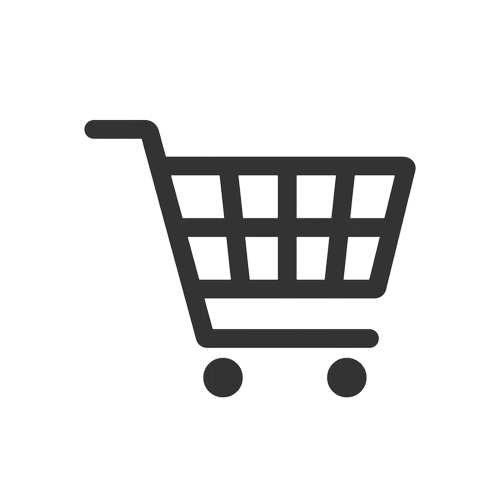
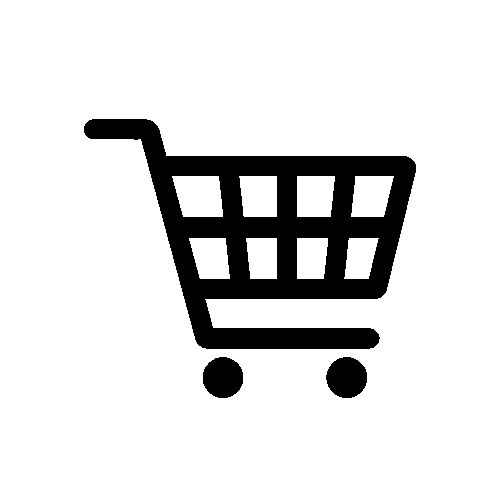
cambios portada

Changed region(s): [[0.15, 0.24, 0.84, 0.81]]

diff --git a/css/estilos.css b/css/estilos.css
@@ -11,7 +11,8 @@ header {
   height: 290px;
   display: flex;
   flex-direction: column;
-  background-color: #ffc48d;
+  background-image: url('../img/fondo.png');
+  background-size: cover;
   color: black;
 }
 
@@ -21,7 +22,7 @@ header {
 
 #divInferior {
   order: 2;
-  margin-top: 10px;
+  margin-top: 20px;
 }
 
 #divlogin {
@@ -33,6 +34,7 @@ header {
   display: flex;
   flex-direction: row;
   margin-right: 30px;
+  margin-top: 20px;
 }
 
 #divcarrito {
@@ -49,7 +51,7 @@ header {
   opacity: 0;
 }
 #divcarrito:hover p {
-  opacity: 0.5;
+  opacity: 1;
 }
 #divpedido img {
   width: 50px;
@@ -58,7 +60,7 @@ header {
   opacity: 0;
 }
 #divpedido:hover p {
-  opacity: 0.5;
+  opacity: 1;
 }
 header a,
 header a:visited {
@@ -153,6 +155,16 @@ footer {
 
 .h1titulo {
   width: 50%;
+  font-size: 2.5em; /* Aumenta el tamaño de la fuente */
+  margin: 0%;
+  font-weight: bold; /* Hace que el texto sea en negrita */
+  color: rgb(76, 195, 195); /* Cambia el color del texto */
+  text-shadow: 2px 2px 4px #920c0c; /* Añade una sombra al texto */
+}
+
+.h2subtitulo {
+  margin-top: 0%;
+  margin-bottom: 4%;
 }
 
 .logoCabecera {
@@ -419,15 +431,15 @@ p.frase {
   width: 180%;
   height: 45px;
   border-radius: 20px;
-  border: none;
+  
   padding: 0 20px;
-  background-color: #ddab7c;
+  background-color: rgba(248, 245, 245, 0.4);
   color: #fff;
   font-size: 16px;
 }
 
 .buscador::placeholder {
-  color: #696969;
+  color: #5c5b5b;
   opacity: 1;
 }
 
@@ -461,7 +473,7 @@ p.frase {
   gap: 10px;
 }
 .buttoncabecera button {
-  background-color:  #da8434;
+  background-color:  #878787;
   color: white;
   padding: 5px 10px;
   border: none;

diff --git a/includes/vistas/comun/cabecera.php b/includes/vistas/comun/cabecera.php
@@ -9,7 +9,7 @@ $puntos = 0;
     <div id="divSuperior">
         <img src="<?php echo RUTA_IMGS ?>/backMusicLogo.png" class="logoCabecera">
         <h1 class="h1titulo">BACK MUSIC</h1>
-        <h2>La mejor tienda de música</h2>
+        <h2 class="h2subtitulo">La mejor tienda de música</h2>
         <div class="cabecera">
             <!-- Aquí agregamos el formulario de búsqueda -->
             <form action="<?php echo RUTA_SRC ?>/buscar.php" method="get">
@@ -50,7 +50,7 @@ $puntos = 0;
                 <p>Pedidos</p>
             </div>
             <div id="divcarrito">
-                <a href="<?php echo RUTA_VISTAS ?>/plantillas/mostrarCarrito.php"><img src="<?php echo RUTA_IMGS ?>/carrito.png" alt="Carrito"></a>
+                <a href="<?php echo RUTA_VISTAS ?>/plantillas/mostrarCarrito.php"><img src="<?php echo RUTA_IMGS ?>/CARRITO.png" alt="Carrito"></a>
                 <p>Carrito</p>
             </div>
         </div>
